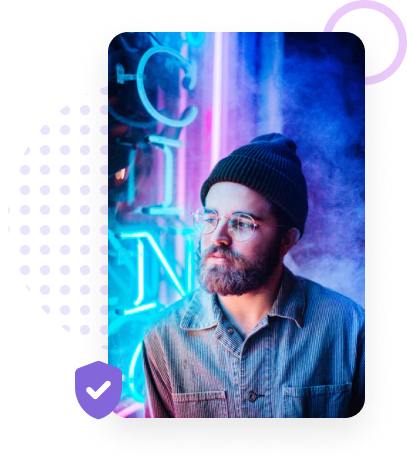
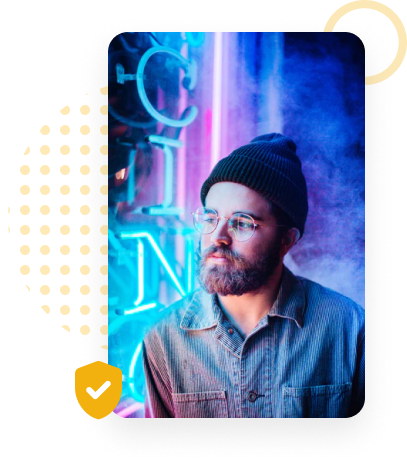
change

Changed region(s): [[0.1474, 0.1803, 0.3243, 0.9013], [0.0295, 0.2704, 0.1179, 0.691], [0.7961, 0.0, 1.0, 0.1803]]

diff --git a/src/components/artwork/artwork.scss b/src/components/artwork/artwork.scss
@@ -48,7 +48,7 @@
                     font-weight: 600;
 
                     span{
-                      color: #8667DE;
+                      color: #f2b10f;
 
                     }
                 }
@@ -101,7 +101,7 @@
         .inner-btn{
             .modal{
                 span{
-                    color:#8667DE ;
+                    color:#f2b10f;
                 }
 
                 .modal-content {
@@ -165,8 +165,8 @@ text-align: center;
                     padding-top: 20px;
                     a{
                         padding-top: 20px;
-                        color: #8667DE;
-                        text-decoration: underline #8667DE!important;
+                        color: #f2b10f;
+                        text-decoration: underline #f2b10f!important;
                     }
 
                     // .btn-common {
@@ -181,17 +181,17 @@ text-align: center;
                     //     font-weight: 500;
                     //     border-radius: 36px;
                     //     width: 50%;
-                    //     border: 1px solid #8667de;
+                    //     border: 1px solid #f2b10f;
                     //     cursor: pointer !important;
 
                     //     &:hover {
                     //         color: #fff;
-                    //         box-shadow: 0px 0px 10px 2px #8667de;
-                    //         background-color: #8667de;
+                    //         box-shadow: 0px 0px 10px 2px #f2b10f;
+                    //         background-color: #f2b10f;
                     //       }
                     //     &:active {
                     //         color: #fff;
-                    //         background-color: #8667de;
+                    //         background-color: #f2b10f;
                     //         box-shadow: 0px 0px 10px 2px #888;
                     //       }
                     //     &:focus {
@@ -200,13 +200,13 @@ text-align: center;
                     // }
                     // .btn-common-2.active {
                     //     color: #fff;
-                    //     box-shadow: 0px 0px 10px 2px #8667de;
-                    //     background-color: #8667de;
+                    //     box-shadow: 0px 0px 10px 2px #f2b10f;
+                    //     background-color: #f2b10f;
                     //  }
                 }
             }
             .btn-common-1 {
-                background-color: #8667de;
+                background-color: #f2b10f;
                 color: #fff;
                //  background-color: #fff;
                 padding: 16px 20px 16px 20px;
@@ -218,7 +218,7 @@ text-align: center;
                 font-weight: 500;
                 border-radius: 36px;
                 width: 100%;
-                border: 1px solid #8667de;
+                border: 1px solid #f2b10f;
                 cursor: pointer !important;
                 img {
                     width: 28px;
@@ -226,14 +226,14 @@ text-align: center;
                 }
                 
                 &:hover {
-                 // border: 1px solid #8667de;
+                 // border: 1px solid #f2b10f;
                  color: #fff;
-                 box-shadow: 0px 0px 10px 2px #8667de;
+                 box-shadow: 0px 0px 10px 2px #f2b10f;
                  background-color: #583FA1;
                }
                &:active {
                  color: #fff;
-                 background-color: #8667de;
+                 background-color: #f2b10f;
                  box-shadow: 0px 0px 10px 2px #888;
                }
                &:focus {
@@ -243,8 +243,8 @@ text-align: center;
            
             .btn-common-1.active {
                color: #fff;
-               box-shadow: 0px 0px 10px 2px #8667de;
-               background-color: #8667de;
+               box-shadow: 0px 0px 10px 2px #f2b10f;
+               background-color: #f2b10f;
             }
         }
     }

diff --git a/src/components/header/header.scss b/src/components/header/header.scss
@@ -19,7 +19,7 @@
     padding: .25rem .75rem;
     font-size: 1.25rem;
     line-height: 1;
-    background-color: #8667de;
+    background-color: #f2b10f ;
     border: 1px solid transparent;
     border-radius: .25rem;
     transition: box-shadow .15s ease-in-out;
@@ -98,7 +98,7 @@ line-height: 27px !important;
 
                     /* Primary Accent */
 
-                    background: #8667DE;
+                    background: #f2b10f ;
                     box-shadow: 0px 10px 14px rgba(134, 103, 222, 0.3);
                     border-radius: 35px;
                 }
@@ -117,7 +117,7 @@ line-height: 17px;
 }
 
     .navbar-nav {
-       margin-left: 440px;
+       margin-left: 430px;
 
         a {
             font-family: Inter;
@@ -129,7 +129,7 @@ line-height: 50px;
 color: #171B1C;
             cursor: pointer;
             &:hover {
-                color: #8667de;
+                color: #f2b10f ;
             }
         }
        
@@ -166,7 +166,7 @@ padding: 10px;
                 color: #000;
                 padding-right: 20px;
                 &:hover {
-                    color: #8667de;
+                    color: #f2b10f ;
                 }
             }
            
@@ -240,7 +240,7 @@ padding: 10px;
     
                         /* Primary Accent */
     
-                        background: #8667DE;
+                        background: #f2b10f ;
                         box-shadow: 0px 10px 14px rgba(134, 103, 222, 0.3);
                         border-radius: 35px;
                     }
@@ -274,7 +274,7 @@ padding: 10px;
       padding: .25rem .75rem;
       font-size: 1.25rem;
       line-height: 1;
-      background-color: #8667de;
+      background-color: #f2b10f ;
       border: 1px solid transparent;
       border-radius: .25rem;
       transition: box-shadow .15s ease-in-out;

diff --git a/src/components/create/Create.js b/src/components/create/Create.js
@@ -100,9 +100,9 @@ const Create = () => {
                                 <div class="form-group">
                                     <div class="inner-drop">
                                         <h5>Categories</h5>
-                                        <select name="" id="" class="form-control"  name="categoryId" >
+                                        {/* <select name="" id="" class="form-control"  name="categoryId" >
                                             <option value="34"> </option>
-                                        </select>
+                                        </select> */}
                                          <div class="dropdown">
                                             <button class="dropdown-toggle" type="button" id="dropdownMenuButton"
                                                 data-toggle="dropdown" aria-haspopup="true" aria-expanded="false">

diff --git a/src/components/mainlanding/mainlanding.scss b/src/components/mainlanding/mainlanding.scss
@@ -13,10 +13,15 @@
     }
 }
 .explore-land .inner-tabs .nav-pills .nav-item .active{
-    padding-bottom: 10px;
+    padding-bottom: 10px!important;
+} 
+.explore-land .inner-tabs .nav-pills .nav-item a:hover{
+    padding-bottom: 10px!important;
 } 
 .explore {
-    
+    a{
+        text-decoration: none!important;
+    }
     .btn-common-2 {
         padding: 10px 14px;
     }

diff --git a/src/components/create/create.scss b/src/components/create/create.scss
@@ -103,7 +103,7 @@ height: 54px;
               }
               
               input:focus + .slider {
-                box-shadow: 0 0 1px #8667DE;
+                box-shadow: 0 0 1px #f2b10f ;
               }
               
               input:checked + .slider:before {

diff --git a/src/components/footer/footer.scss b/src/components/footer/footer.scss
@@ -15,7 +15,7 @@
             a {
                 cursor: pointer;
                 &:hover {
-                    color: #8667de;
+                    color: #f2b10f;
                 }
             }
         } 

diff --git a/src/components/profiledetail/profiledetail.scss b/src/components/profiledetail/profiledetail.scss
@@ -18,7 +18,7 @@ font-weight: bold;
 font-size: 18px;
 line-height: 22px;
 text-decoration-line: underline;
-color: rgba(134, 103, 222, 1);
+color: #f2b10f;
 background: transparent;
 border: none;
 &:hover {
